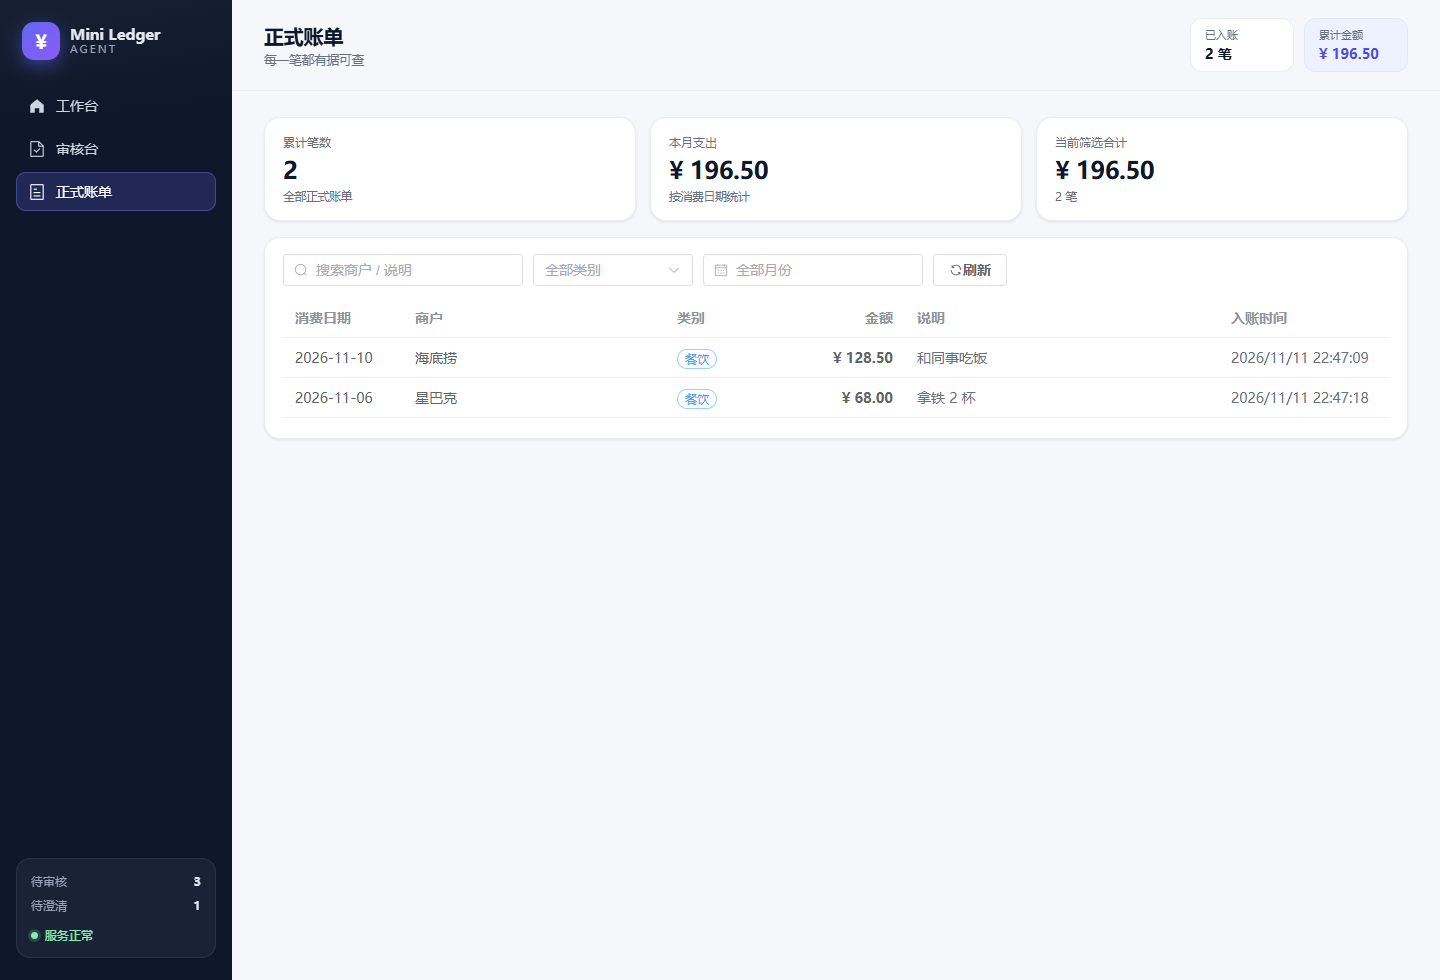
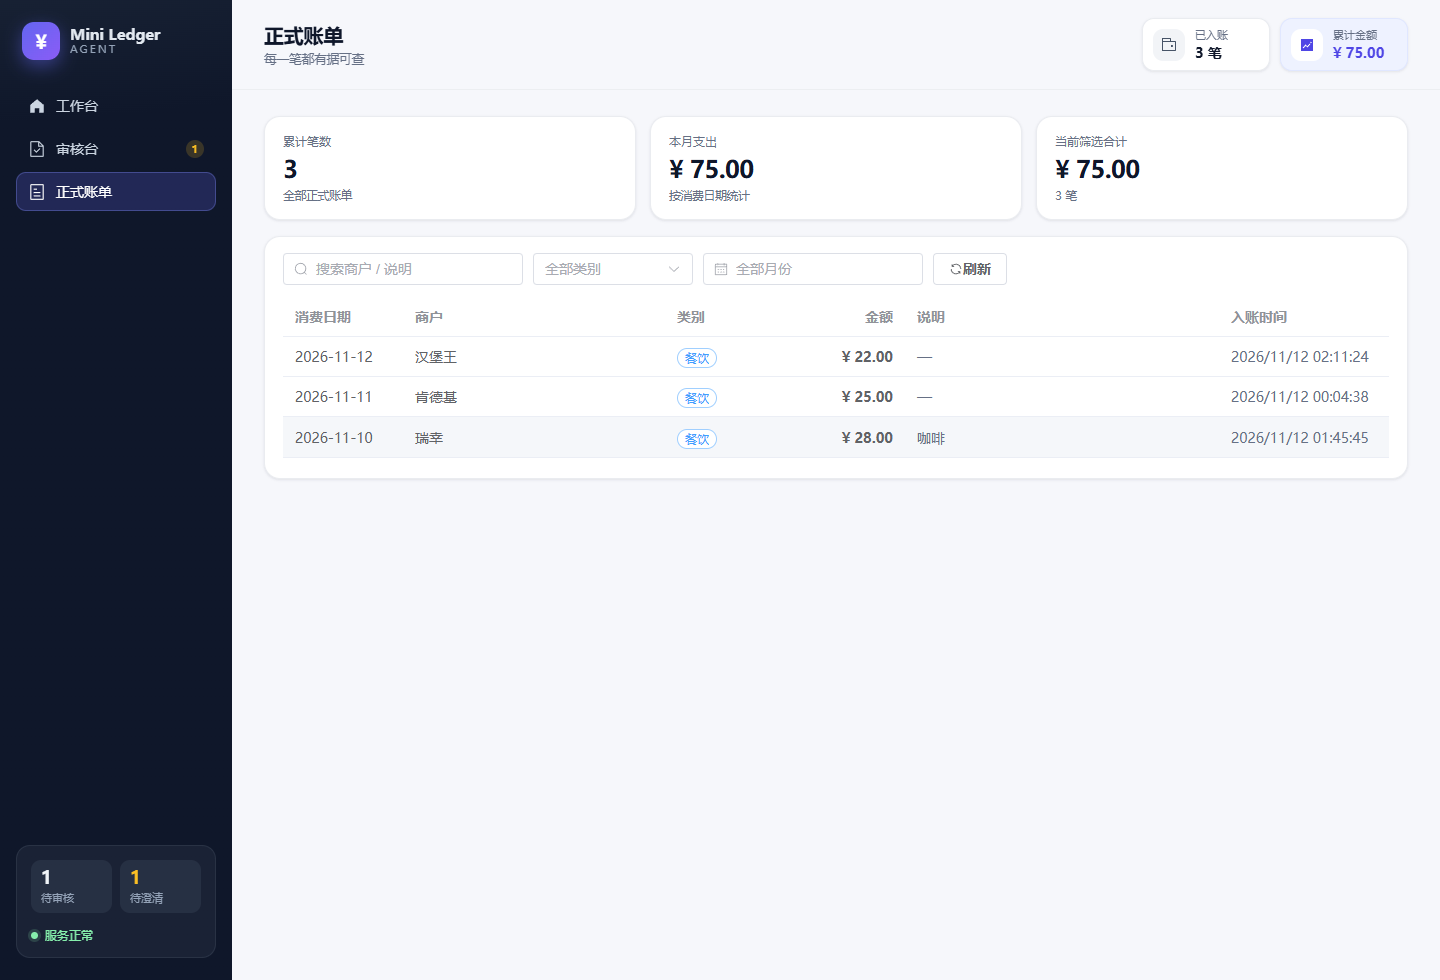
fix(web): refresh stats when detail finishes processing and on review mount

diff --git a/frontend/src/views/InputDetail.vue b/frontend/src/views/InputDetail.vue
@@ -43,9 +43,11 @@ const staleHours = computed(() => {
 
 async function load(showLoading = false) {
   if (showLoading) loading.value = true
+  const wasBusy = busy.value
   try {
     const { data } = await http.get<InputDetail>(`/inputs/${inputId.value}`)
     detail.value = data
+    if (wasBusy && !busy.value) statsStore.refresh()
   } catch (e) {
     ElMessage.error(apiError(e).message)
   } finally {
@@ -157,6 +159,7 @@ function time(iso: string) {
 }
 
 onMounted(async () => {
+  statsStore.refresh()
   await load(true)
   timer = window.setInterval(() => {
     if (busy.value) load()

diff --git a/frontend/src/views/Review.vue b/frontend/src/views/Review.vue
@@ -100,7 +100,10 @@ async function onSaved() {
 }
 
 watch(active, load)
-onMounted(load)
+onMounted(() => {
+  load()
+  statsStore.refresh()
+})
 </script>
 
 <template>
